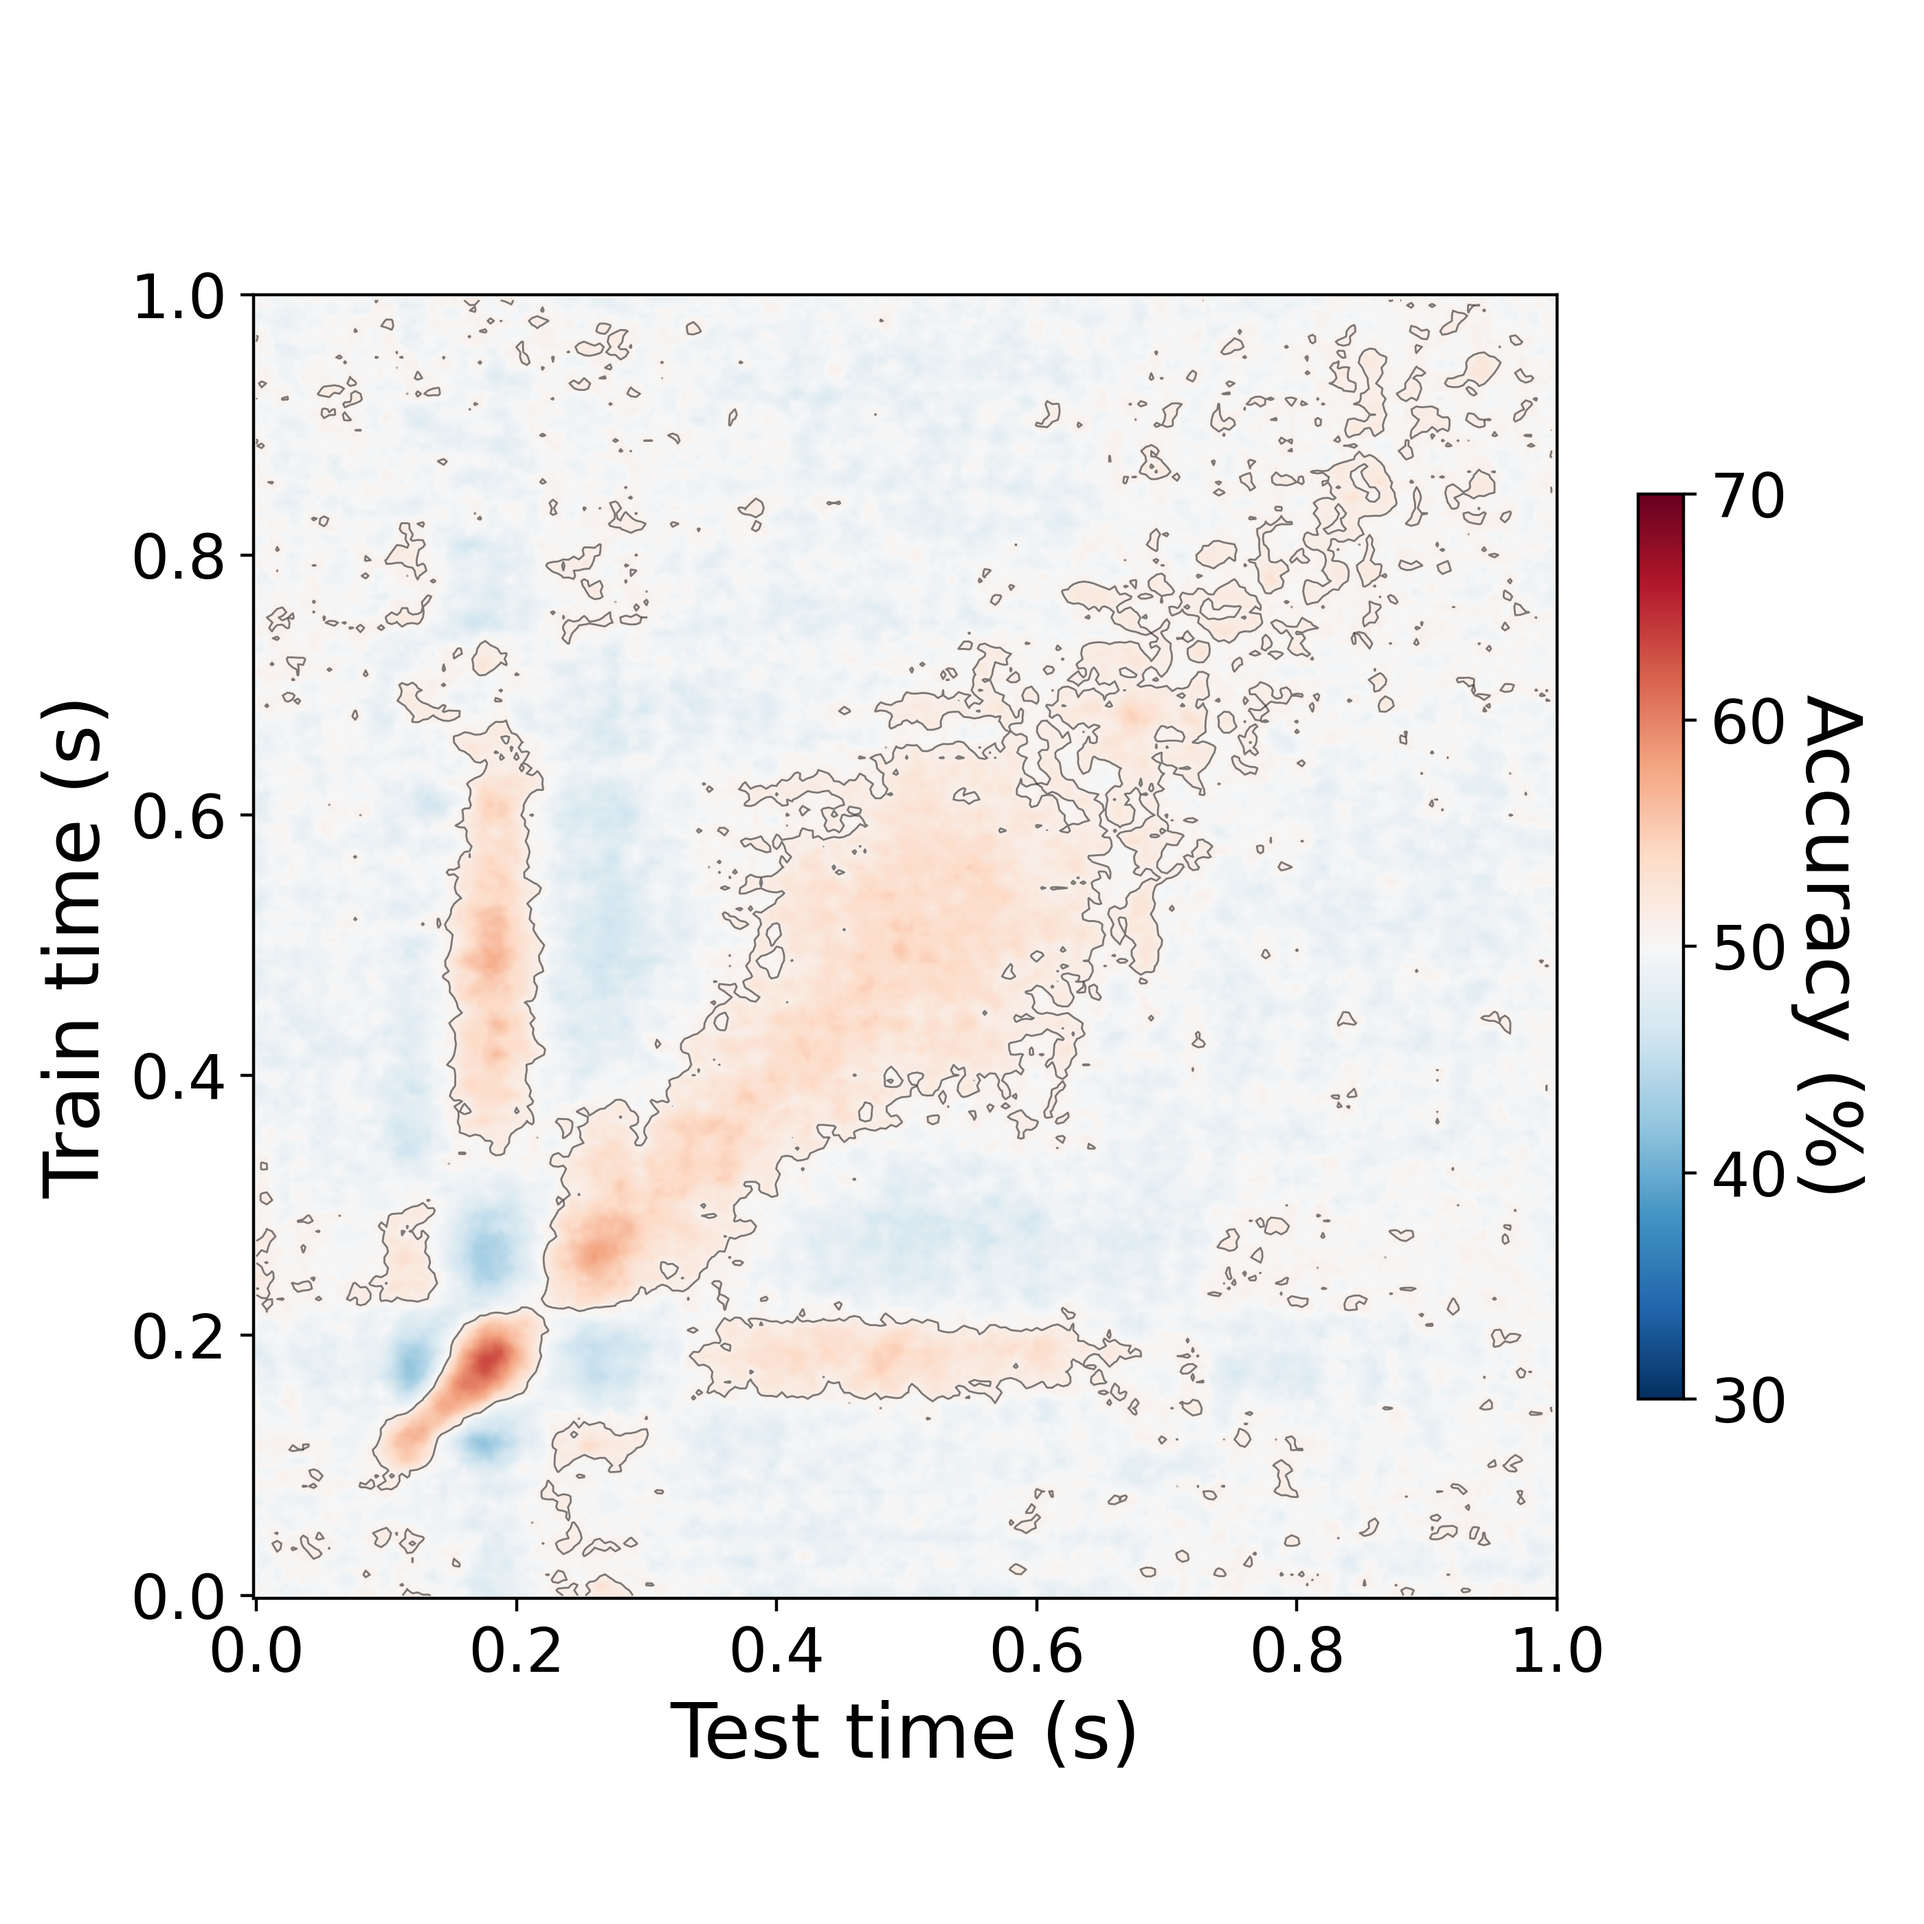
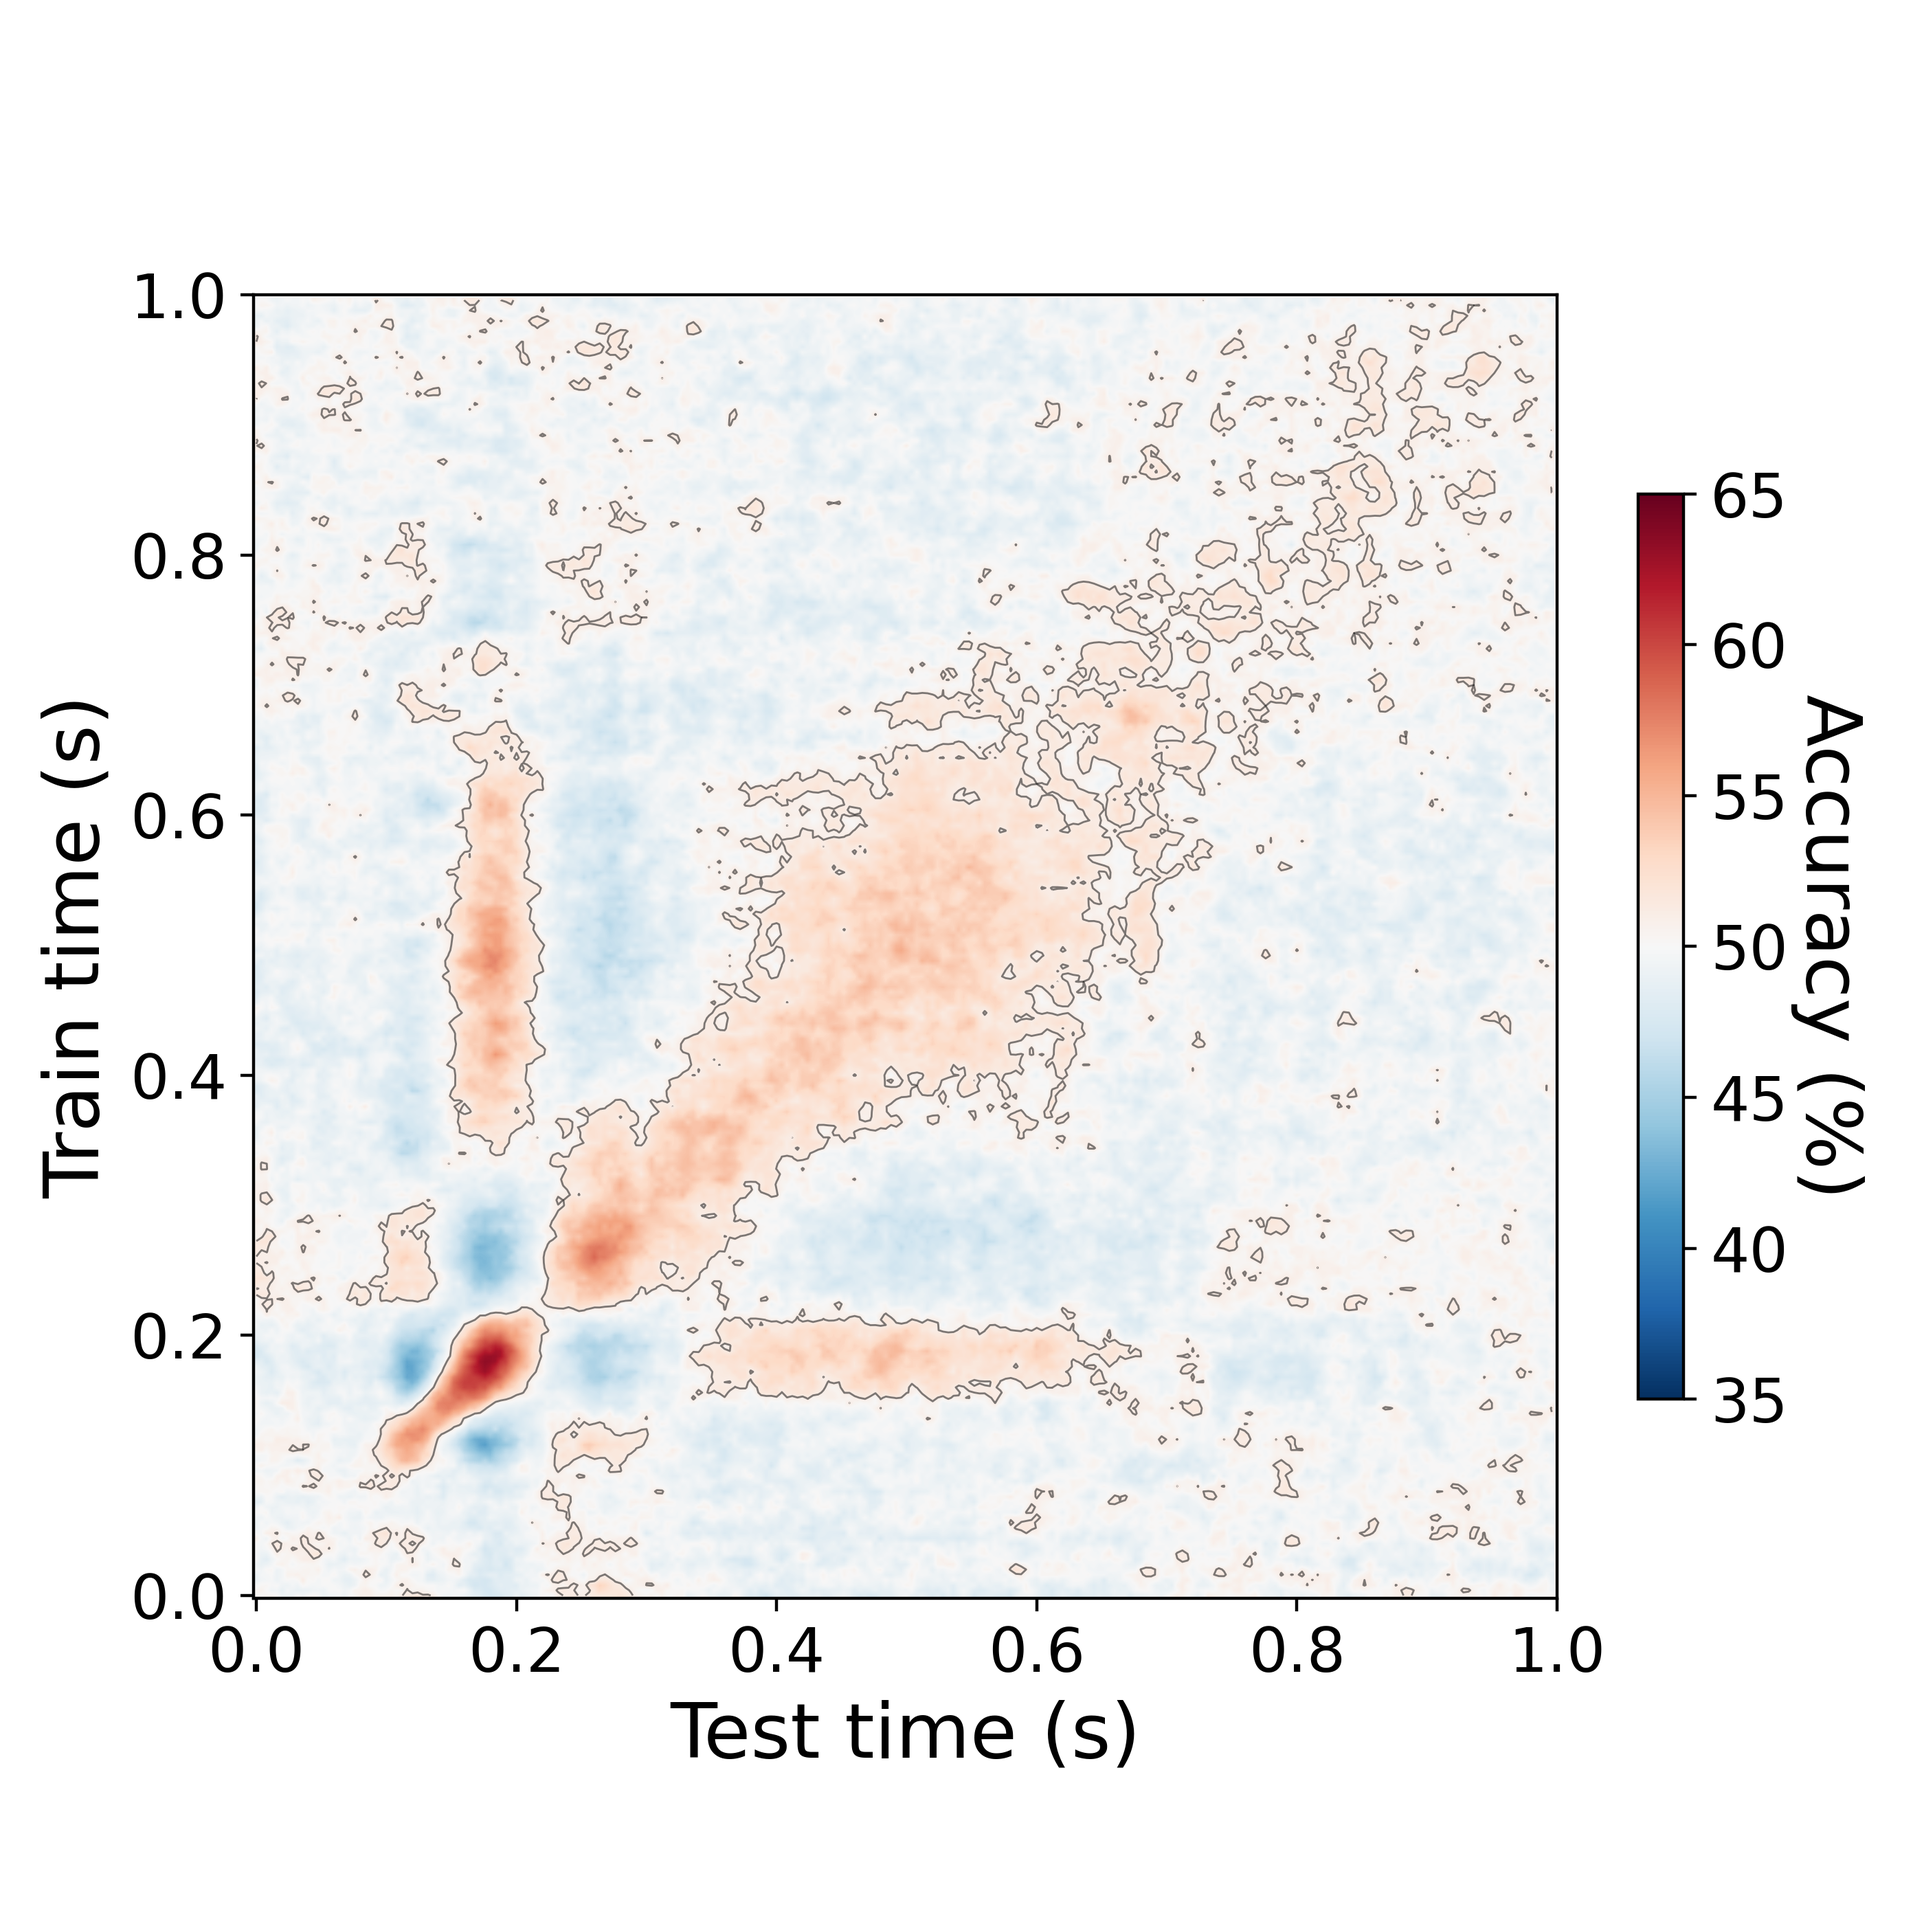
same vmin and max for within and across sessions + add plotting of difference

diff --git a/decoding/cross_decoding/plot_results.py b/decoding/cross_decoding/plot_results.py
@@ -443,7 +443,7 @@ def cross_diags_average_sesh(accuracies, SE=False, save_path=None, title=None):
         plt.savefig(save_path)
 
 
-def average_diagonal(acc, alpha, acc_pair = None, save_path = None):
+def average_diagonal(acc, alpha = None, acc_pair = None, save_path = None):
     """
 
     """
@@ -454,12 +454,13 @@ def average_diagonal(acc, alpha, acc_pair = None, save_path = None):
     # multiply by 100 to get percentages
     diag = diag * 100
 
-    for i in range(acc_pair.shape[0]):
-        for j in range(acc_pair.shape[1]):
-            if i == j:
-                continue
-            else:
-                ax.plot(np.diagonal(acc_pair[i, j], axis1=0, axis2=1)*100, color = 'lightblue', alpha = 0.1)
+    if acc_pair is not None:
+        for i in range(acc_pair.shape[0]):
+            for j in range(acc_pair.shape[1]):
+                if i == j:
+                    continue
+                else:
+                    ax.plot(np.diagonal(acc_pair[i, j], axis1=0, axis2=1)*100, color = 'lightblue', alpha = 0.1)
 
     # detect peaks 
     peaks, _ = find_peaks(diag, height = 54, distance = 10)
@@ -470,20 +471,20 @@ def average_diagonal(acc, alpha, acc_pair = None, save_path = None):
     time_peaks = peaks/250
     value_peaks = diag[peaks]
 
-    # detect where significance is reached
-    sig = np.where(diag > chance_level(588*11, alpha = alpha, p = 0.5)*100)[0]
-    sig_time = sig[0]/250
+    if alpha:
+        # detect where significance is reached
+        sig = np.where(diag > chance_level(588*11, alpha = alpha, p = 0.5)*100)[0]
+        sig_time = sig[0]/250
 
 
 
-    print(f"Time peaks: {time_peaks}")
-    print(f"Value peaks: {value_peaks}")
-    print(f"Time sig: {sig_time}")
+        print(f"Time peaks: {time_peaks}")
+        print(f"Value peaks: {value_peaks}")
+        print(f"Time sig: {sig_time}")
+        # plot a dashed line with chance level
+        cl = chance_level(588*11, alpha = alpha, p = 0.5)*100
 
-    # plot a dashed line with chance level
-    cl = chance_level(588*11, alpha = alpha, p = 0.5)*100
-
-    ax.plot([0, 250], [cl, cl], linestyle = '--', color = 'k', alpha = 0.5)
+        ax.plot([0, 250], [cl, cl], linestyle = '--', color = 'k', alpha = 0.5)
 
     ax.set_xlabel('Time (s)'.upper())
     ax.set_ylabel('Accuracy (%)'.upper())
@@ -499,7 +500,7 @@ def average_diagonal(acc, alpha, acc_pair = None, save_path = None):
         plt.savefig(save_path)
 
 
-def average_diagonal_within(acc, alpha, acc_pair = None, save_path = None):
+def average_diagonal_within(acc, alpha = None, acc_pair = None, save_path = None):
     """
 
     """
@@ -509,9 +510,9 @@ def average_diagonal_within(acc, alpha, acc_pair = None, save_path = None):
 
     # multiply by 100 to get percentages
     diag = diag * 100
-
-    for i in range(acc_pair.shape[2]):
-        ax.plot(np.diagonal(acc_pair[:, :, i], axis1=0, axis2=1)*100, color = 'lightblue', alpha = 0.2)
+    if acc_pair is not None:
+        for i in range(acc_pair.shape[2]):
+            ax.plot(np.diagonal(acc_pair[:, :, i], axis1=0, axis2=1)*100, color = 'lightblue', alpha = 0.2)
 
     # detect peaks 
     peaks, _ = find_peaks(diag, height = 54, distance = 10)
@@ -524,9 +525,10 @@ def average_diagonal_within(acc, alpha, acc_pair = None, save_path = None):
 
 
     # plot a dashed line with chance level
-    cl = chance_level(588*11, alpha = alpha, p = 0.5)*100
+    if alpha:
+        cl = chance_level(588*11, alpha = alpha, p = 0.5)*100
 
-    ax.plot([0, 250], [cl, cl], linestyle = '--', color = 'k', alpha = 0.5)
+        ax.plot([0, 250], [cl, cl], linestyle = '--', color = 'k', alpha = 0.5)
 
     ax.set_xlabel('Time (s)'.upper())
     ax.set_ylabel('Accuracy (%)'.upper())
@@ -552,7 +554,6 @@ def main_plot_generator():
         # read in results
         accuracies[parc] = np.load(os.path.join('accuracies', f'cross_decoding_10_LDA_{parc}.npy'), allow_pickle=True)
         accuracies_within[parc] = np.diagonal(accuracies[parc], axis1=0, axis2=1)
-        print(accuracies_within[parc].shape)
 
 
         # plot all pairs of sessions in one figure
@@ -575,7 +576,7 @@ def main_plot_generator():
         # average over cross-session pairs
         avg = np.nanmean(acc1, axis=(0, 1))
 
-        plt = plot.plot_tgm_fig(avg, vmin=40, vmax=60, chance_level=chance_level(588*11, alpha = alpha, p = 0.5), cbar_loc='right')
+        plt = plot.plot_tgm_fig(avg, vmin=35, vmax=65, chance_level=chance_level(588*11, alpha = alpha, p = 0.5), cbar_loc='right')
         plt.savefig(os.path.join('plots', f'cross_decoding_{parc}_average.png'))
 
         # plot the average over all sessions
@@ -596,9 +597,23 @@ def main_plot_generator():
             acc_pair=accuracies_within[parc],
             save_path = os.path.join('plots', f'diagonals_within.png'))
 
-        plt = plot.plot_tgm_fig(avg_within, vmin=30, vmax=70, chance_level=chance_level(588*11, alpha = alpha, p = 0.5), cbar_loc='right')
+        plt = plot.plot_tgm_fig(avg_within, vmin=35, vmax=65, chance_level=chance_level(588*11, alpha = alpha, p = 0.5), cbar_loc='right')
         plt.savefig(os.path.join('plots', f'within_decoding_{parc}_average.png'))
 
+
+        # plot the difference between within and cross session pairs
+        difference = avg - avg_within
+        plt = plot.plot_tgm_fig(difference, vmin=-6, vmax=6, cmap = "PuOr_r", cbar_loc='right')
+
+        plt.savefig(os.path.join('plots', f'difference_decoding_{parc}_average.png'))
+
+        # diagonal of the difference
+        average_diagonal(
+            difference,
+            save_path = os.path.join('plots', f'diagonals_difference.png'))
+
+        
+        
         # plot averaged according to conditions and using cross-session pairs
         #plot_train_test_condition(acc1, parc, diff_colour='darkblue')
 
